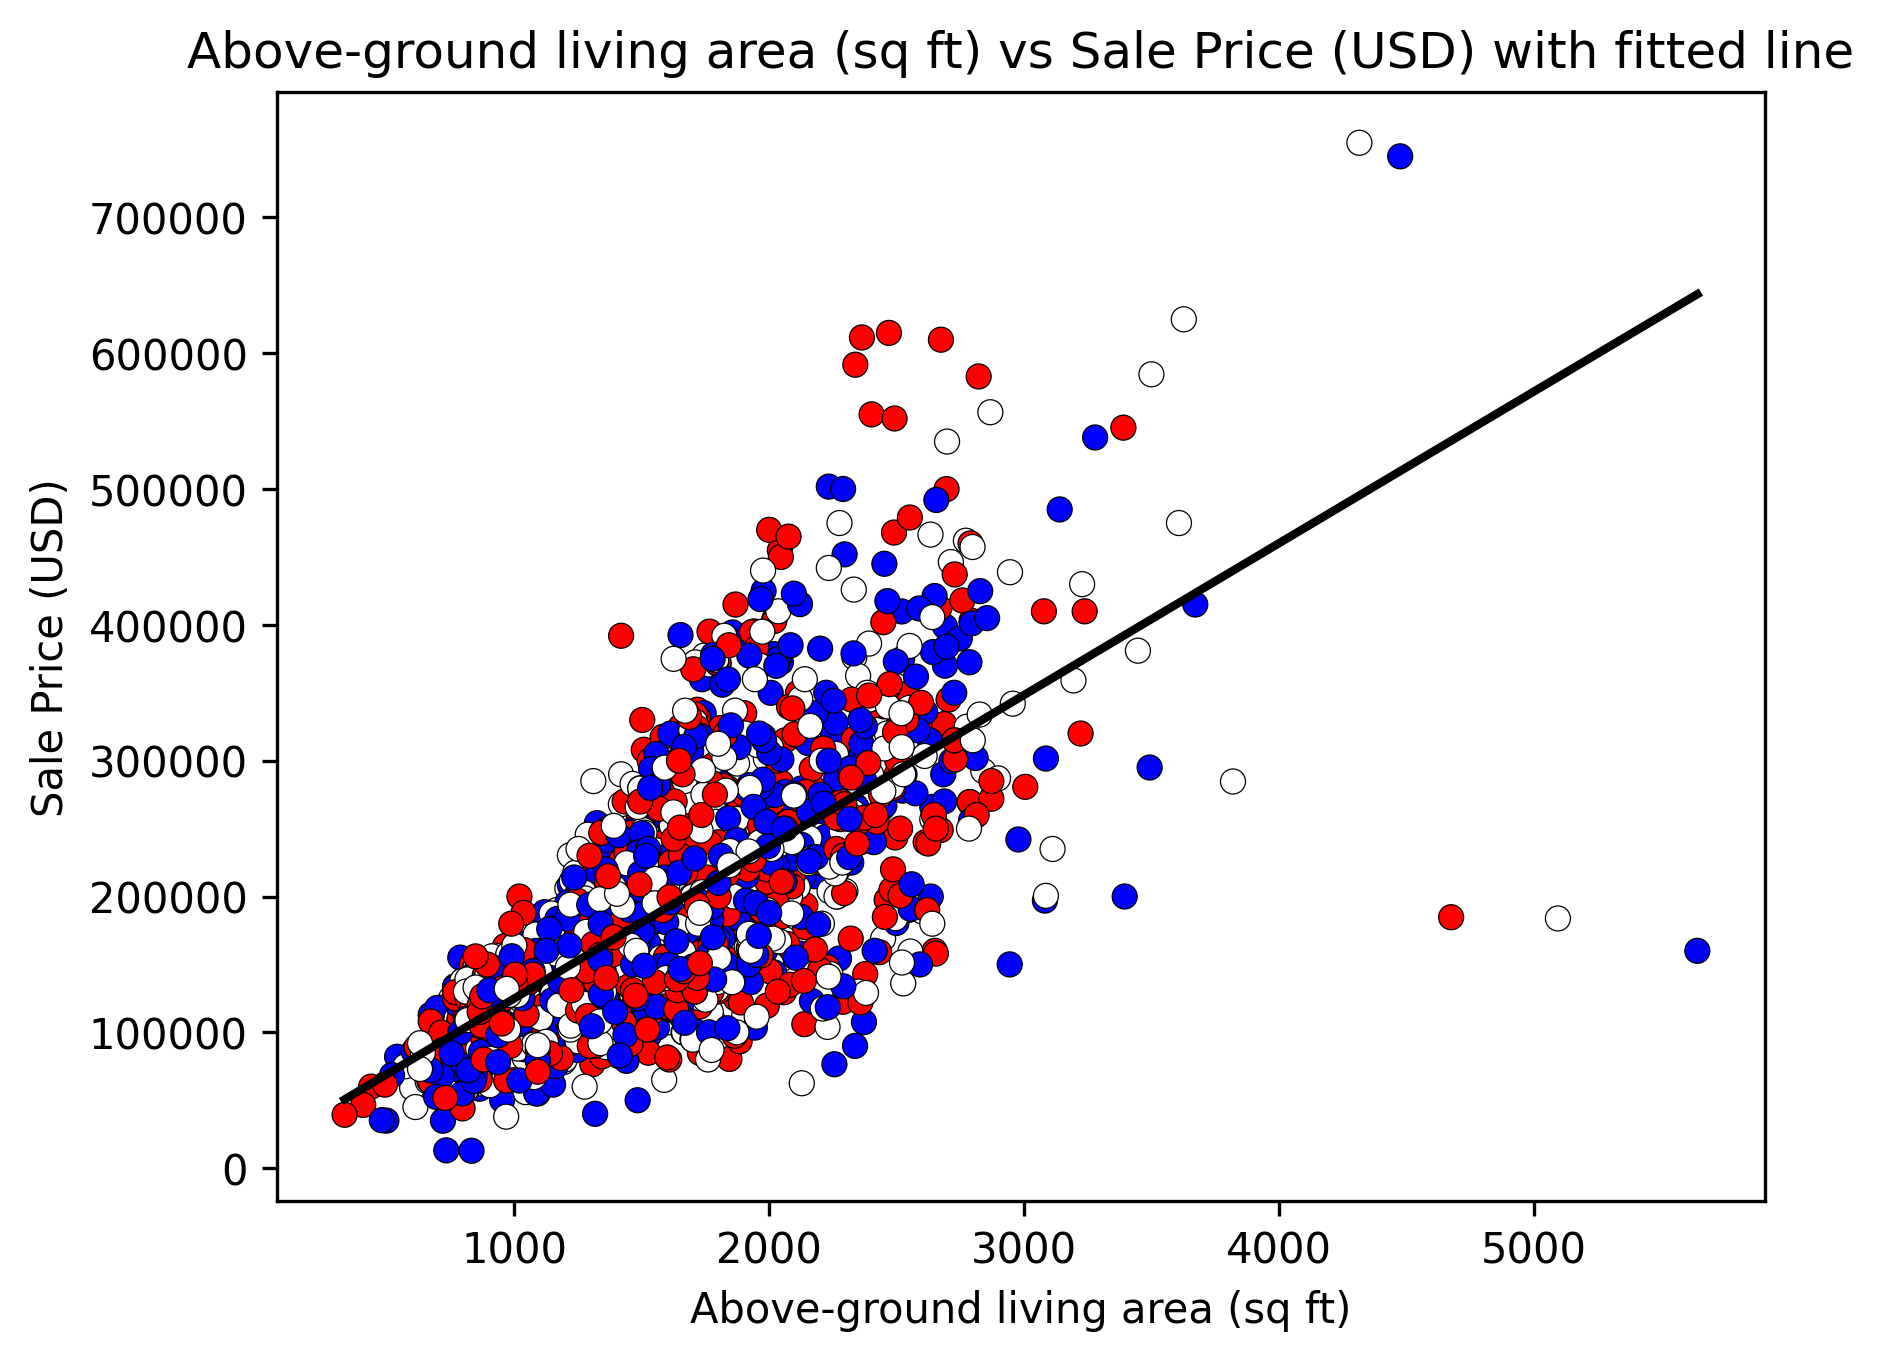
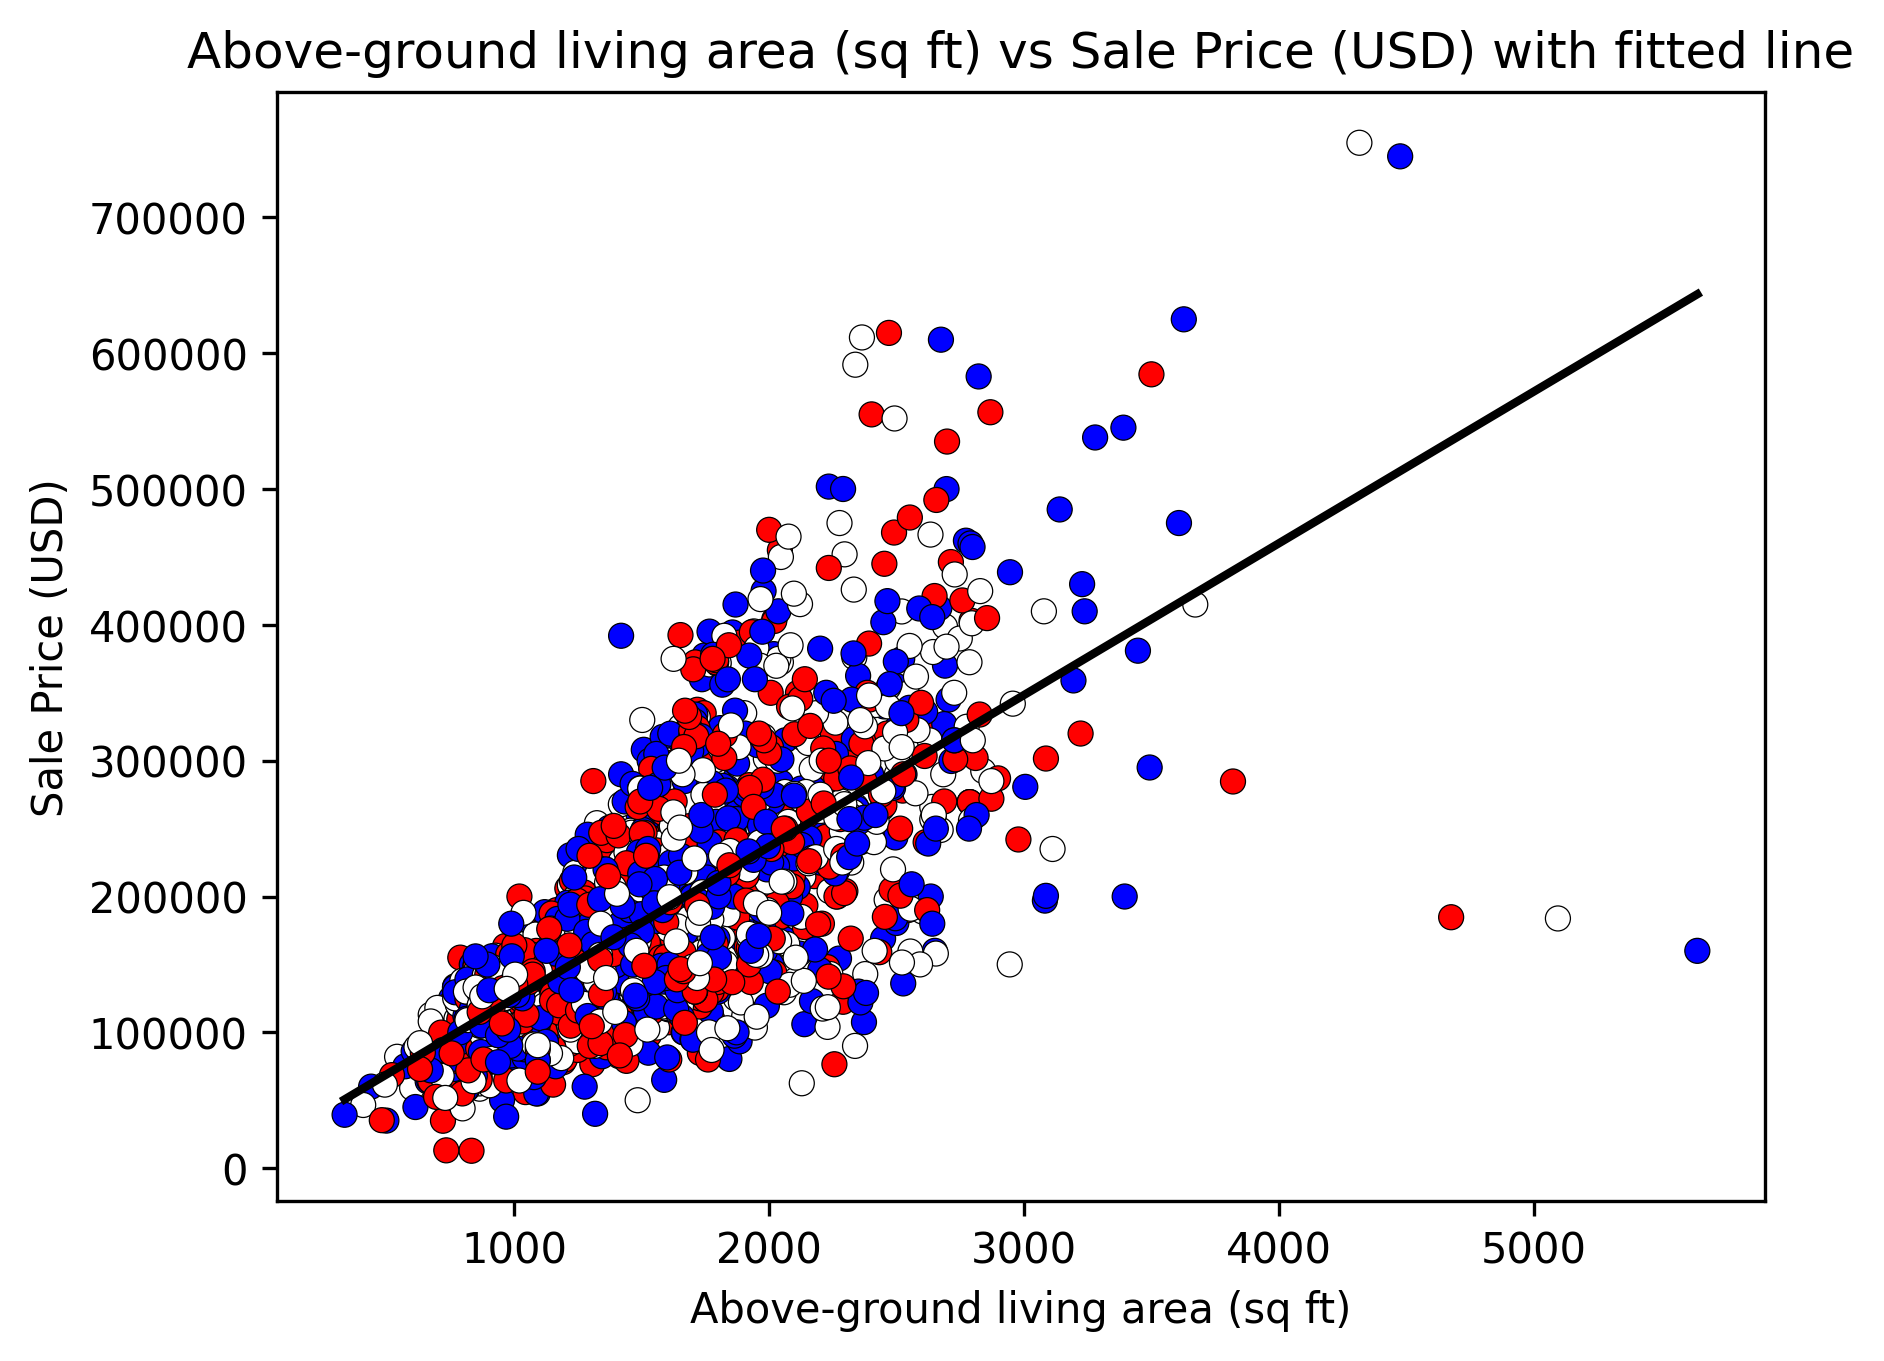
Update README, docs, and regression images for Phase 4 and Phase 5

diff --git a/docs/index.md b/docs/index.md
@@ -90,6 +90,21 @@ Once multiple models are built, it is helpful to compare them side‑by‑side u
 
 If residual plots show curvature or patterns that a straight line cannot capture, it may be appropriate to explore more flexible models. Techniques such as polynomial regression, decision trees, or random forests can model complex relationships without requiring strict linearity. While these models are more advanced, they can reveal structure in the data that simple linear regression misses. This step demonstrates awareness of modern modeling approaches and provides a path for future project expansion.
 
-See
+# Custom Project
+
+# 🧱Basis
+For this project, I began with the example regression workflow provided in the course, specifically the CO₂ case study that demonstrated how to load a dataset, prepare a modeling view, fit a linear regression model, compute fitted values, examine residuals, and generate visualizations. Using that workflow as a foundation, I applied the same structure to the Ames Housing dataset. My input data came from `data/raw/housing.csv`, which contains 2,930 rows and 83 columns describing residential properties in Ames, Iowa. I used the example script as a guide for organizing my functions, logging steps, and producing a complete regression analysis.
+
+# 🛠️Phase 4 Modifications
+For Phase 4, I made a small but meaningful technical modification to my regression script. I added a new function that computes R‑squared and RMSE using scikit‑learn’s `r2_score` and `mean_squared_error`. I chose this modification because the example script emphasized the importance of evaluating model performance, and adding these metrics made my analysis more complete. I also customized the scatter plot visuals by assigning red, white, and blue colors to the points, which improved readability and aligned with my preferred visualization style. I verified that the modification worked by running the script, checking that the metrics appeared in the logs, and confirming that the updated plots were saved correctly in the `docs/images` folder.
+
+# 🎯Phase 5 Custom Project
+For Phase 5, I extended the regression workflow to analyze two different predictors of home sale price in the Ames Housing dataset: above‑ground living area (`Gr Liv Area`) and overall quality rating (`Overall Qual`). I built a complete regression pipeline that included loading the data, preparing a modeling view, fitting the model, computing metrics, generating scatter and residual plots, and saving the visualizations. I recommend changing the example workflow by adding metric computation, saving plots automatically, and running multiple regressions within the same script, because these additions make the analysis more informative and easier to compare.
+
+In my results, I found that Overall Quality was a much stronger predictor of SalePrice than Gr Liv Area. The regression using Gr Liv Area produced an R‑squared of about 0.50, while the regression using Overall Quality produced an R‑squared of about 0.64. The residual plots also supported this conclusion: the residuals for Overall Quality were more randomly scattered around zero, indicating a better linear fit. From this project, I learned how different features can produce very different model performances and how important it is to evaluate both numerical metrics and visual diagnostics.
+
+In completing this project, I exercised nearly all the skills covered in the module: loading and cleaning data, building modeling views, constructing feature matrices, fitting regression models, computing performance metrics, generating visualizations, saving outputs, and writing documentation. These techniques can be applied to many future problems, such as predicting housing prices in other cities, analyzing relationships between economic indicators, or exploring correlations in any structured dataset.
+
+
 [⭐ **Workflow: Apply Example**](https://denisecase.github.io/pro-analytics-02/workflow-b-apply-example-project/)
 to get these projects running on your machine.

diff --git a/README.md b/README.md
@@ -47,9 +47,11 @@ This dataset is widely used in data science because it contains a mix of size‑
 This project follows a clear, repeatable workflow for performing simple linear regression:
 
 **1. Load the dataset**:
+
 The script loads the Ames Housing data and checks for missing values in the selected feature and target.
 
 **2. Prepare the modeling view**:
+
 Rows missing the chosen feature or SalePrice are removed to ensure clean, consistent input for the model.
 
 **3. Build the feature matrix (X) and target vector (y)**
@@ -58,6 +60,7 @@ Rows missing the chosen feature or SalePrice are removed to ensure clean, consis
      - y contains the SalePrice values
 
 **4. Fit a simple linear regression model**:
+
 The model finds the best‑fit line that minimizes prediction error.
 
 **5. Generate fitted values and residuals**:
@@ -73,6 +76,7 @@ The model finds the best‑fit line that minimizes prediction error.
 - A residual plot to check linearity and variance
 
 **8. Save results**:
+
 All plots are saved to `docs/images/`, and a summary is printed to the terminal.
 For data suggestions, please see [data/raw/README.md](data/raw/README.md).
 